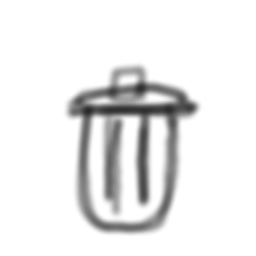
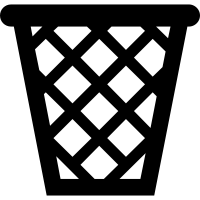
updating styling and images

diff --git a/static/css/index.css b/static/css/index.css
@@ -10,95 +10,132 @@ body{
 }
 
 
-#FileSystemContainer{
-    width : 100vw;
-    height : 100vh;
+
+/*
+The top section: contains tools and stuff
+*/
+
+#TopDiv{
+    background-color : #eeeeee;
+    width : 100%;
 }
 
-#FSTools{
-    width : 100vw;
-    height : 60px;
-    border-bottom : 1px solid black;
+#TopS1{
+    width : 100%;
+    height : 22px;
+    display:inline-block;
 }
 
 #AddressBar{
-    width : 96%;
-    float : left;
-    font-family : Messy;
-    height : 18px;
-    padding:0;
-    margin:0;
+    height : 16px;
+    margin:0px;
+    padding : 0px;
+    margin-left : 5px;
+    margin-top : 2px;
+    border-radius : 2px;
+    border : 1px solid grey;
+    padding-left : 8px;
+    width : 85%;
+    font-family : Arial;
+    font-size : 12px;
 }
 
-#upDirectoryArrow{
+#OtherTools{
+    font-family:Arial;
+    width : 95%;
+    padding-top : 5px;
+    padding-bottom : 5px;
+    padding-left : 25px;
+    display:inline-block;
+}
+
+.TopIcons{
     width : 20px;
     height : 20px;
+    padding : 4px;
+    border : 1px solid black;
+}
+
+.TopMessages{
+    font-family : Arial;
     float : left;
-    cursor : pointer;
-    border-top:1px solid grey;
-    border-bottom:1px solid grey;
-}
-
-#FSToolBoxDiv{
-    width : 100%;
-    height : 50px;
-}
-
-.toolIcons{
-    width : 39px;
-    float : left;
-    margin-right : 2px;
-}
-
-#NotesContainer{
-    width : 400px;
-    height : 400px;
-    position : fixed;
-    background-color : white;
-    top : 0px;
-    right : 0px;
-}
-
-#NotesToggle{
-    position : fixed;
-    top : 0;
-    right : 0;
-    width : 30px;
-    height : 30px;
+    height : 20px;
+    padding : 4px;
 }
 
 #NotesToggleImg{
-    width : 30px;
-    height : 30px;
+    float : right;
+    height : 16px;
+    width : 16px;
+    margin : 0;
+    padding : 0;
+    margin-left : 2px;
+    margin-top : 2px;
+    float : right;
 }
 
-#View{
-    width 100%;
-    height : 400px;
-    overflow-y : scroll;
+
+
+#BackArrow{
+    width : 16px;
+    height : 16px;
+    margin : 0;
+    padding : 0;
+    margin-left : 2px;
+    margin-top : 2px;
+    float : left;
 }
+
+/*Mobile Versions*/
+
+@media screen and (max-width: 600px) {
+    
+    #BackArrow{
+        width : 30px;
+        height : 30px;
+        padding : 10px;
+    }
+    #NotesToggleImg{
+        width : 30px;
+        height : 30px;
+        padding : 10px;
+    }
+    #AddressBar{
+        height : 30px;
+        width : 65%;
+        margin-top : 10px;
+        font-size : 20px;
+    }
+    
+    .TopMessages{
+        height : 30px;
+        padding : 5px;
+        font-size : 30px;
+    }
+    
+    .TopIcons{
+        height : 30px;
+        width : 30px;
+        padding : 5px;
+    }
+}
+
 
 /*
-    file viewer
+end top section
 */
-.fileIconOuter{
-    width : 80px;
-    height : 60px;
-    margin : 1px;
-    float : left;
-    cursor : pointer;
-}
 
-.fileIconIcon{
-    height : 30px;
-    margin-left : 25px;
-    padding : 0;
-    margin-bottom : 0;
-}
 
-.fileIconName{
-    text-align:center;
+/*File Viewer section*/
+
+#FileSystemContainer{
+    background-color : red;
     width : 100%;
-    font-size : 20px;
-    margin-top : 0;
 }
+
+.selectionIcon{
+    border : 1px solid black;
+    width : 20px; height : 20px;
+}
+
+/*end' File Viewer section*/

diff --git a/static/index.html b/static/index.html
@@ -6,25 +6,32 @@
         <script src="js/BackgroundTab.js"></script>
         <script src="js/index.js"></script>
         <link type="text/css" rel="stylesheet" href="css/index.css">
+        <meta name="viewport" content="width=device-width, initial-scale=1.0">
     </head>
     <body>
-        <!--//functions-->
-        <div id="FileSystemContainer">
-            <div id="FSTools">
-                <img id="upDirectoryArrow" ng-click="goUp()" src="/img/upArrow.jpg">
+        
+        <div id="TopDiv">
+            <div id="TopS1">
+                <img ng-click="goUp()" id="BackArrow" src="/img/upArrow.jpg">
                 <input id="AddressBar" ng-value="currentDirectory"  type="text">
-                <div id="FSToolBoxDiv">
-                    <img class="toolIcons" ng-show="selectedList.length > 0" src="/img/trashIcon.png">
-                    <img class="toolIcons" ng-show="selectedList.length > 0" ng-click="downloadFiles()" src="/img/downloadIcon.png">
-                    <span>No. selected files: {{selectedList.length}}</span>
-                </div>
+                <img id="NotesToggleImg" ng-click="displayNotes = !displayNotes" src="/img/squareIcon.png">
             </div>
-            <!--//view -->
+            <div id="OtherTools">
+                <div class="TopMessages">sf: {{selectedList.length}}</div>
+                <img class="TopIcons" ng-show="selectedList.length > 0" src="/img/trashIcon.png">
+                <img class="TopIcons" ng-show="selectedList.length > 0" ng-click="downloadFiles()" src="/img/downloadIcon.png">
+                
+            </div>
+        </div>
+        
+        <!--//functions -->
+        <div id="FileSystemContainer">
+            <!--//view  -->
             <div id="View">
-                <div ng-show="file.name[0] != '.'" class="fileIconOuter" ng-repeat="file in currentFiles" ng-dblclick="clickFile(file)" ng-click="selectFile(file)">
-                    <img class="fileIconIcon" ng-src="{{'/img/' + (file.isDirectory ? 'directoryIcon.png' : 'fileIcon.png')}}">
+                <div ng-show="file.name[0] != '.'" class="fileIconOuter" ng-repeat="file in currentFiles">
+                    <img class="fileIconIcon" ng-click="clickFile(file)" ng-src="{{'/img/' + (file.isDirectory ? 'directoryIcon.png' : 'fileIcon.png')}}">
                     <div class="fileIconName" ng-style="{color: isSelected(file)?'red':'black'}">
-                        {{file.name}}
+                        {{file.name}} <div ng-click="selectFile(file)" ng-class="'selectionIcon'" ng-style="{'background-color':isSelected(file)?'black':'none'}"></div>
                     </div>
                 </div>
                 
@@ -37,6 +44,6 @@
         
         
         
-        <div id="NotesToggle" ng-click="displayNotes = !displayNotes"><img id="NotesToggleImg" src="/img/squareIcon.png"></div>
+        
     </body>
 </html>

diff --git a/server.js b/server.js
@@ -42,17 +42,6 @@ app.get('/fileList', function(req, res){
 
 app.get('/downloadFile', function(req, res){
     res.sendFile(req.query.filePath);
-    /*var file = req.body.filePath;
-
-    var filename = file;
-    var mimetype = mime.lookup(file);
-
-    res.setHeader('Content-disposition', 'attachment; filename=' + filename);
-    res.setHeader('Content-type', mimetype);
-
-    var filestream = fs.createReadStream(file);
-    filestream.pipe(res);*/
-    
 });
 
 
